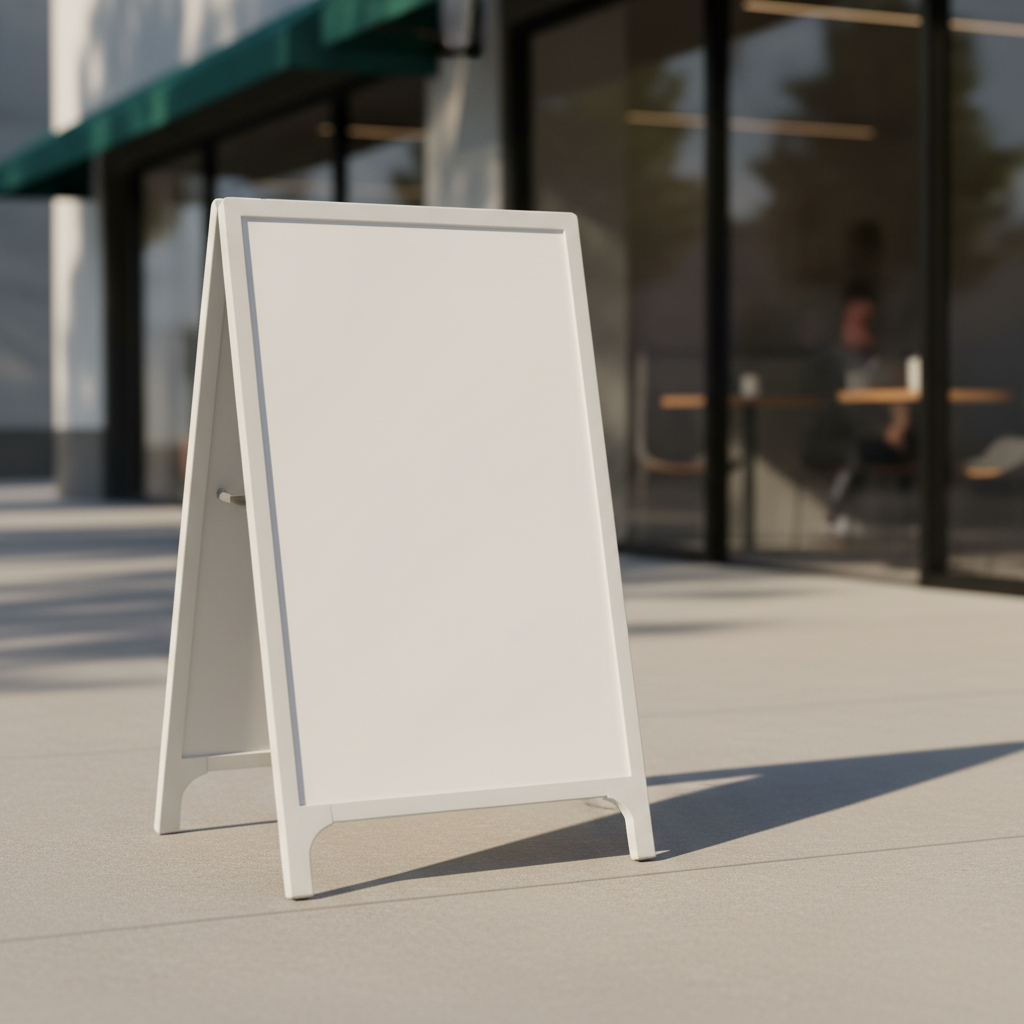
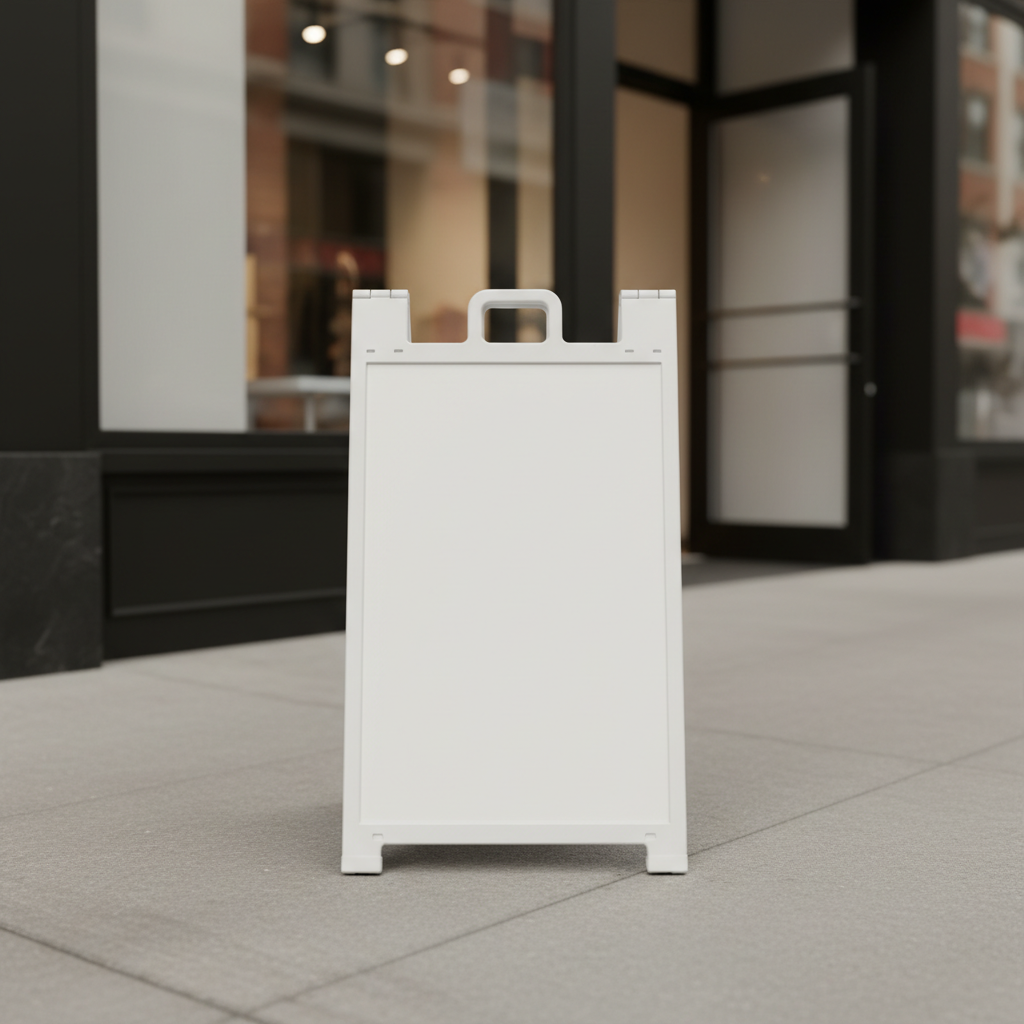
Fix 11 mockup bases that were wrong for flat-overlay rendering
ArtworkMockup.tsx drops uploads as a flat rectangle with no perspective
warp, so any base image shot at a 3/4 angle or on a curved surface made
the overlay sit wrong. Regenerated all 11 mechanically broken scenes
with strict head-on / perpendicular-to-surface framing and retuned slot
coords to match the new compositions:

Stickers: laptop (closed lid top-down), bottle (laid flat overhead),
window (pure broadside sedan)
Vehicle:  van, work-van, box-truck (all pure broadside side profile)
Signage:  a-frame (camera plane matched to face)
Mylar:    jar (hex jar with flat front facet)
Print:    cards, flyer, postcard (all top-down flat lay)

diff --git a/src/pages/VehicleGraphics.tsx b/src/pages/VehicleGraphics.tsx
@@ -99,7 +99,7 @@ export default function VehicleGraphics() {
                 key: 'van',
                 label: 'Ford Transit Van',
                 base: vanBlank,
-                slot: { left: 33, top: 37, width: 45, height: 22 },
+                slot: { left: 30, top: 35, width: 48, height: 25 },
               },
               {
                 key: 'sedan',
@@ -111,13 +111,13 @@ export default function VehicleGraphics() {
                 key: 'box',
                 label: 'Box Truck',
                 base: boxTruckBlank,
-                slot: { left: 30, top: 28, width: 55, height: 35 },
+                slot: { left: 31, top: 26, width: 50, height: 32 },
               },
               {
                 key: 'sprinter',
                 label: 'Work Van',
                 base: workVanBlank,
-                slot: { left: 28, top: 35, width: 50, height: 28 },
+                slot: { left: 30, top: 32, width: 48, height: 25 },
               },
             ]}
           />

diff --git a/src/pages/Order.tsx b/src/pages/Order.tsx
@@ -561,19 +561,19 @@ export default function Order() {
                 key: 'laptop',
                 label: 'Laptop',
                 base: stickerLaptopBlank,
-                slot: { left: 32, top: 28, width: 42, height: 35 },
+                slot: { left: 29, top: 36, width: 42, height: 28 },
               },
               {
                 key: 'bottle',
                 label: 'Water Bottle',
                 base: stickerBottleBlank,
-                slot: { left: 36, top: 30, width: 30, height: 38 },
+                slot: { left: 33, top: 27, width: 30, height: 42 },
               },
               {
                 key: 'window',
                 label: 'Car Window',
                 base: stickerWindowBlank,
-                slot: { left: 35, top: 30, width: 35, height: 35 },
+                slot: { left: 56, top: 40, width: 18, height: 12 },
               },
               {
                 key: 'tote',

diff --git a/src/pages/BusinessPrint.tsx b/src/pages/BusinessPrint.tsx
@@ -98,19 +98,19 @@ export default function BusinessPrint() {
                 key: 'cards',
                 label: 'Business Card',
                 base: cardsBlank,
-                slot: { left: 38, top: 45, width: 30, height: 25 },
+                slot: { left: 32, top: 40, width: 36, height: 20 },
               },
               {
                 key: 'flyer',
                 label: 'Flyer',
                 base: flyerBlank,
-                slot: { left: 28, top: 18, width: 44, height: 62 },
+                slot: { left: 30, top: 25, width: 40, height: 53 },
               },
               {
                 key: 'postcard',
                 label: 'Postcard',
                 base: postcardBlank,
-                slot: { left: 22, top: 30, width: 55, height: 38 },
+                slot: { left: 25, top: 38, width: 50, height: 27 },
               },
             ]}
           />

diff --git a/src/pages/BusinessSignage.tsx b/src/pages/BusinessSignage.tsx
@@ -111,7 +111,7 @@ export default function BusinessSignage() {
                 key: 'aframe',
                 label: 'A-Frame',
                 base: aFrameBlank,
-                slot: { left: 30, top: 22, width: 42, height: 50 },
+                slot: { left: 31, top: 23, width: 36, height: 52 },
               },
             ]}
           />

diff --git a/src/pages/MylarPackaging.tsx b/src/pages/MylarPackaging.tsx
@@ -398,7 +398,7 @@ export default function MylarPackaging() {
                 key: 'jar',
                 label: '2oz Jar',
                 base: mylarJarBlank,
-                slot: { left: 32, top: 38, width: 36, height: 30 },
+                slot: { left: 34, top: 46, width: 28, height: 26 },
               },
             ]}
           />
